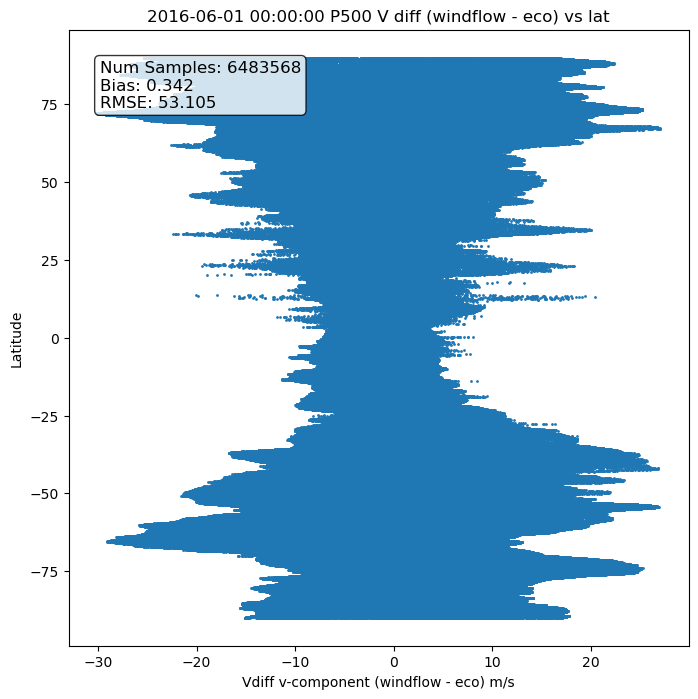
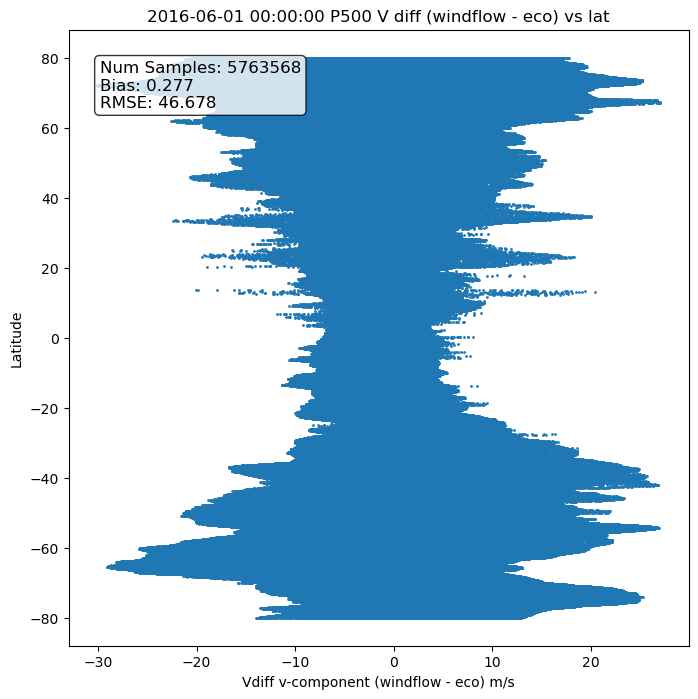
plot improvements

diff --git a/humidity.py b/humidity.py
@@ -37,7 +37,7 @@ fig, axes = plt.subplots(1, 2, subplot_kw={'projection': projection}, figsize=(2
 
 # Combined plot time 1
 ax = axes[0]
-im = ax.pcolormesh(lon, lat, gp_rad1, transform=projection, cmap=plt.cm.jet)
+im = ax.pcolormesh(lon, lat, gp_rad1, transform=projection, cmap=plt.cm.jet,vmax=140)
 qv_eco = ax.quiver(lon[::60], lat[::40], eco_u[::40, ::60], eco_v[::40, ::60], color='black', width=0.0015, label='ECO1280')
 qv_wind = ax.quiver(lon[::60], lat[::40], wu_mask[::40, ::60].data, wv_mask[::40, ::60].data, color='red', width=0.0007, label='Windflow')
 cbar = plt.colorbar(im, ax=ax, shrink=0.7, label='Humidity kg kg-1')
@@ -47,7 +47,7 @@ ax.legend(loc='upper right', bbox_to_anchor=(1.1, 1.0))
 
 # Combined plot time 2
 ax = axes[1]
-im = ax.pcolormesh(lon, lat, gp_rad2, transform=projection, cmap=plt.cm.jet)
+im = ax.pcolormesh(lon, lat, gp_rad2, transform=projection, cmap=plt.cm.jet,vmax=140)
 qv_eco = ax.quiver(lon[::60], lat[::40], eco_u[::40, ::60], eco_v[::40, ::60], color='black', width=0.0015, label='ECO1280')
 qv_wind = ax.quiver(lon[::60], lat[::40], wu_mask[::40, ::60], wv_mask[::40, ::60], color='red', width=0.0007, label='Windflow')
 cbar = plt.colorbar(im, ax=ax, shrink=0.7, label='Humidity kg kg-1')

diff --git a/scatter.py b/scatter.py
@@ -27,7 +27,7 @@ def main():
     assert np.all(lat == w_lat)
 
     expanded_lat = np.tile(lat, (3600, 1)).T
-    mask = (expanded_lat <= 90) & (expanded_lat >= -90) & ((gp_rad1 > 0) | (gp_rad2 > 0)) # Mask the region of interest, as well as the minimum humidity value.
+    mask = (expanded_lat <= 80) & (expanded_lat >= -80) & ((gp_rad1 > 0) | (gp_rad2 > 0)) # Mask the region of interest, as well as the minimum humidity value.
     lat_mask = np.radians(expanded_lat[mask])  # Convert latitude from degrees to radians
 
     # Select masked regions
